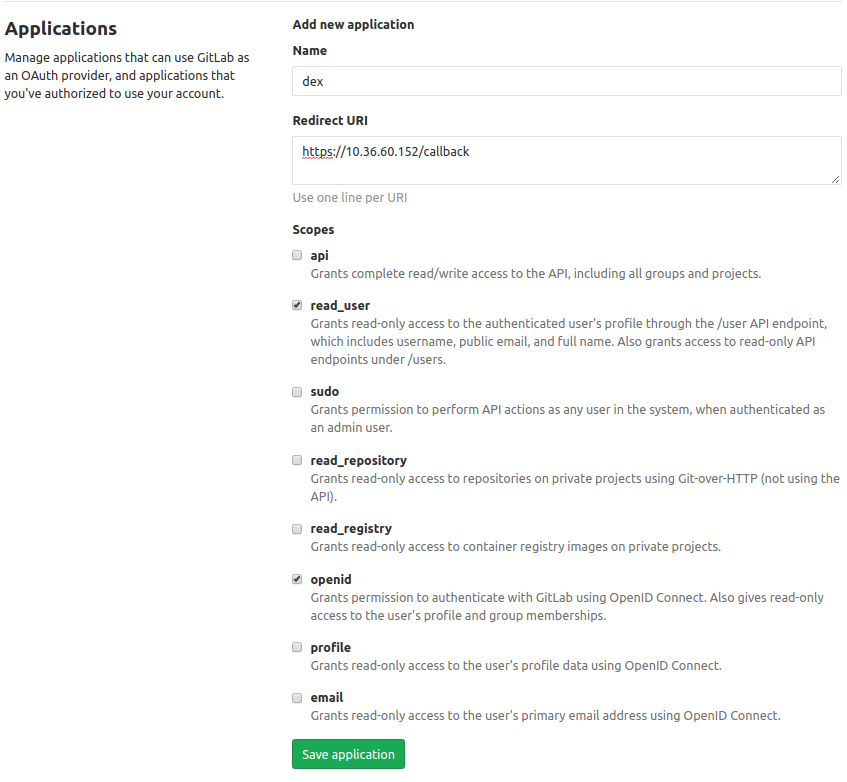
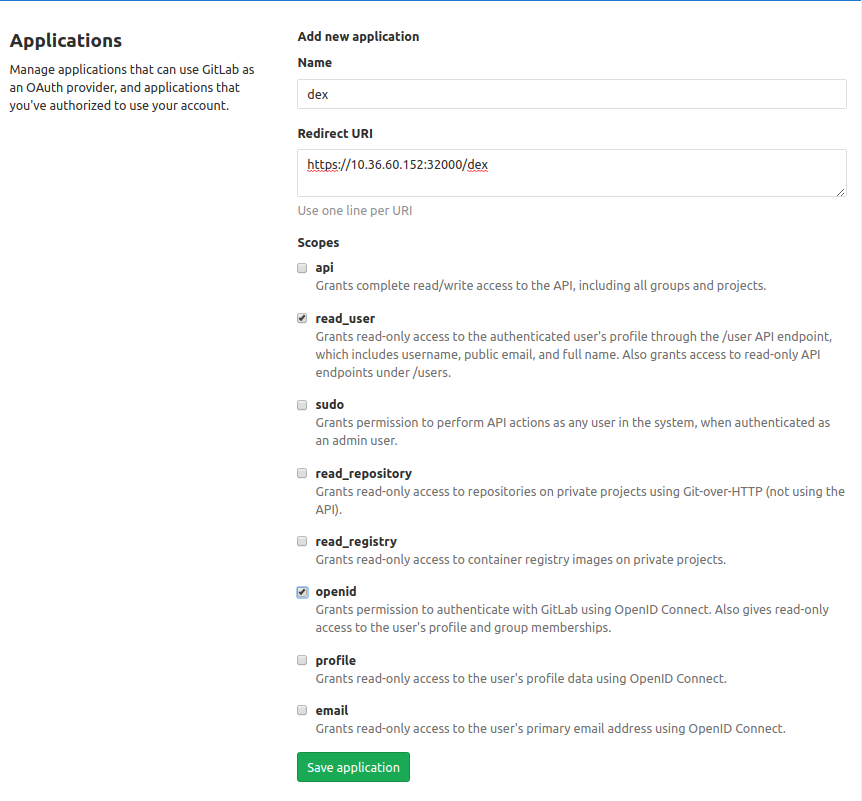
Fixed docs from typos, uncertainties

diff --git a/docs/addons.rst b/docs/addons.rst
@@ -60,14 +60,14 @@ Dex, set up a *Application ID* and *Secret* on Gitlab:
 1. Go to your **Gitlab User Settings** and click on **Applications**
 2. Create a new Application with the following parameters:
 
-============  ====================================
+============  ==========================================
 Parameter     Value
-============  ====================================
+============  ==========================================
 Name          dex
-Redirect URI  ``https://%%FLOATING_IP%%/callback``
+Redirect URI  ``https://%%FLOATING_IP%%:32000/callback``
 read_user     set
 openid        set
-============  ====================================
+============  ==========================================
 
 Example:
 
@@ -195,11 +195,11 @@ We take those certificates, and deploy them as secrets into our cluster:
 Next we have to deploy the *Application ID* and *Secret* from Gitlab as Kubernetes secrets too, but **make sure to substitute
 the placeholders below with your own**:
 
-.. code:: shell
+.. code::
 
     $ kubectl create secret generic gitlab-client \
-        --from-literal=client-id="%%APP_ID%%" \
-        --from-literal=client-secret="%%APP_SECRET%%" \
+        --from-literal=client-id=%%APP_ID%% \
+        --from-literal=client-secret=%%APP_SECRET%% \
         --namespace=kube-system
 
 Afterwards we can create the deployments for Dex and the client application. All files are located in
@@ -225,12 +225,12 @@ With local copies presents, let's edit ``manifests/dex/00-dex.yaml`` first. We g
 
     # ...
 
-    # 1.3 The Authenticator URL (e.g. Gitlab) redirects back to dex. Substitute with with your Floating IP
+    # 1.3 The URL Gitlab redirects to. Substitute with with your Floating IP
     redirectURI: https://%%FLOATING_IP%%:32000/callback
 
     # ...
 
-    # 1.4 The Application URL (e.g. sample-app) where dex redirects to. Substitute with with your Floating IP
+    # 1.4 The URL Dex redirects to. Substitute with with your Floating IP
     - 'http://%%FLOATING_IP%%:5555/callback'
 
 With the manifest present, we can apply Dex into the cluster:
